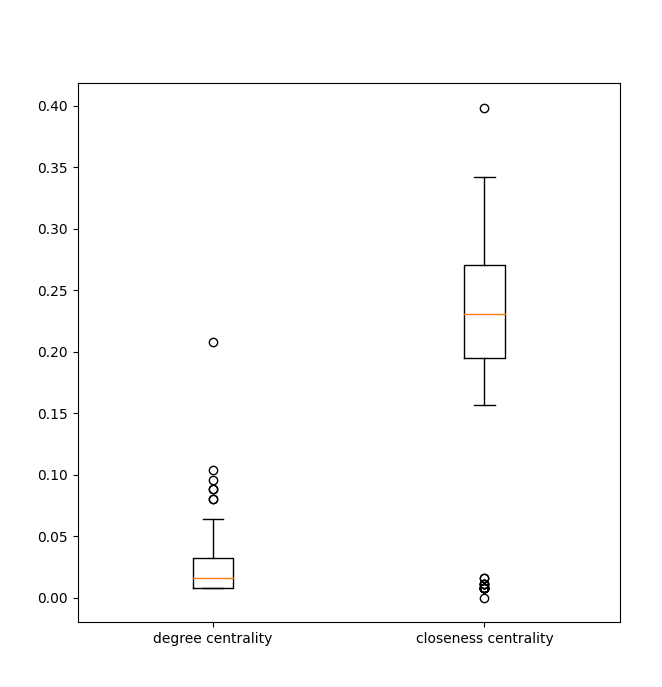
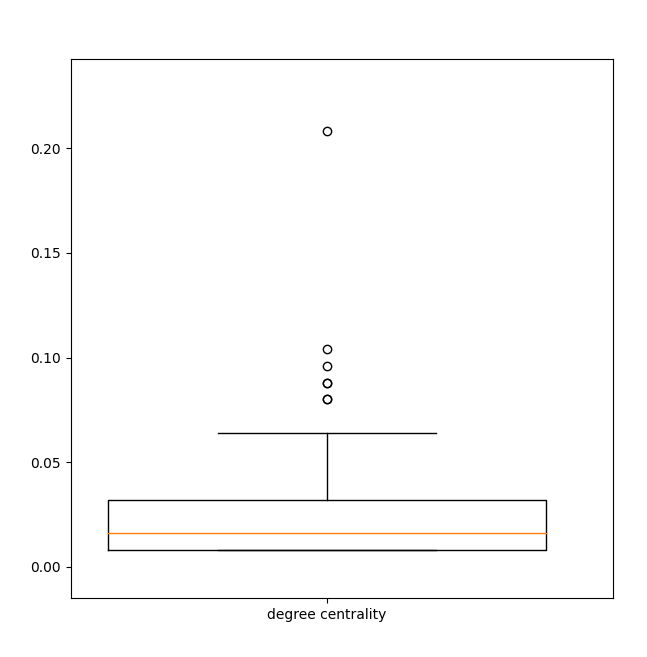
fixed graphAttributes

diff --git a/graphAttributes.py b/graphAttributes.py
@@ -22,7 +22,7 @@ def get_avg(dic, nodes):
 def boxplot(data):
     fig = plt.figure(figsize =(7, 7))
     ax = fig.add_subplot()
-    ax.set_xticklabels(['degree centrality', 'closeness centrality'])
+    ax.set_xticklabels(['degree centrality', 'local clustering coefficient'])
 
     plt.boxplot(data)
     plt.show()
@@ -60,20 +60,26 @@ if __name__ == "__main__":
     #connected components: 11
     #average clustering coefficient: 0.08453372905753857
     #average degree centrality: 0.023619047619047633
-    #average degree closeness centrality: 0.20470759143266876
+    #average closeness centrality: 0.20470759143266876
 
 
     #plotting
     degree_values = [degree_data[node] for node in degree_data]
-    closeness_values = [closeness_data[node] for node in closeness_data]
+    #closeness_values = [closeness_data[node] for node in closeness_data]
+
+    #local clustering coefficient
+    node_cc = nx.clustering(G)
+    local_cc_values = [node_cc[node] for node in node_cc]
 
     fig = plt.figure()
     gs = fig.add_gridspec(2, hspace=0.5)
     axs = gs.subplots()
-    axs[0].hist(degree_values, 20)
+    axs[0].hist(degree_values, 12, range=(0, 0.12))
     axs[0].set_title('degree centrality')
-    axs[1].hist(closeness_values, 20)
-    axs[1].set_title('closeness centrality')
+    #axs[1].hist(closeness_values, 20)
+    #axs[1].set_title('closeness centrality')
+    axs[1].hist(local_cc_values, 10)
+    axs[1].set_title('local clustering coefficient')
     plt.show()
 
-    boxplot([degree_values, closeness_values])
+    boxplot([degree_values, local_cc_values])
